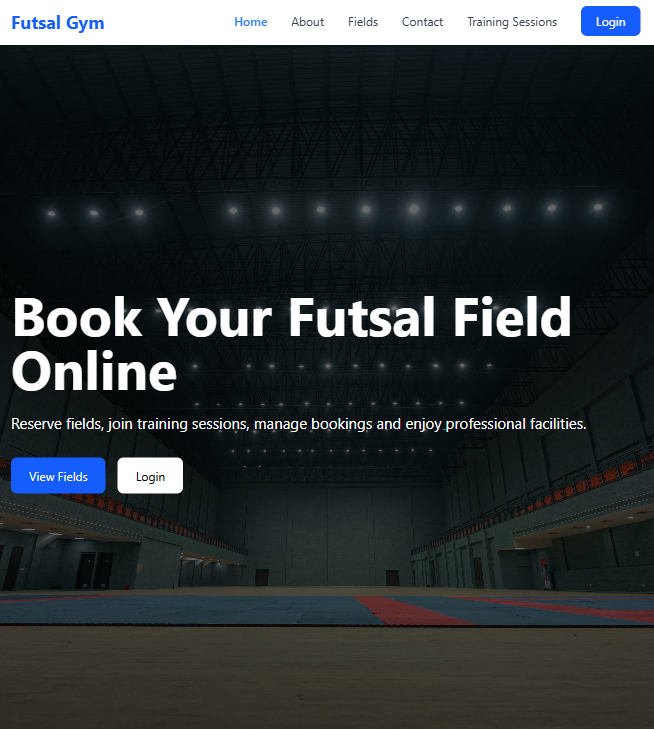
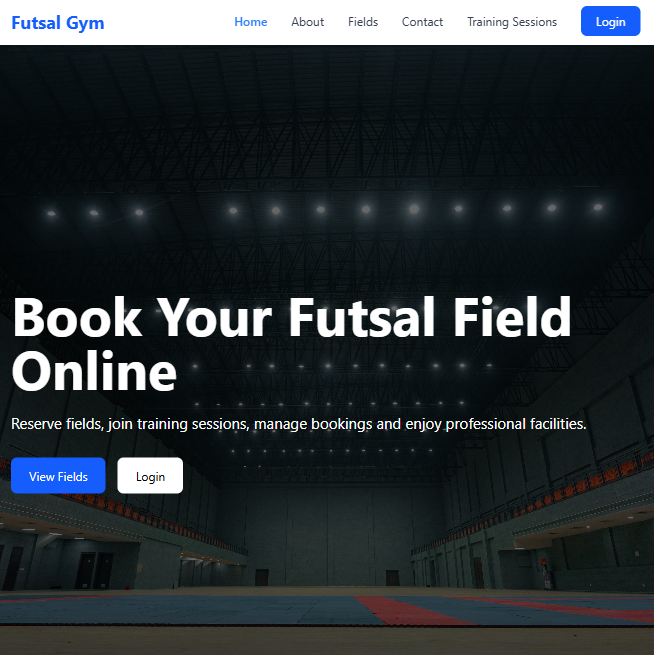
the picture of weather app project added

diff --git a/src/features/projects/ProjectsPage.tsx b/src/features/projects/ProjectsPage.tsx
@@ -21,7 +21,7 @@ const projects = [
   },
   {
     id: 3,
-    image: "about.png",
+    image: "weather.png",
     thechnologies: ["React", "Node.js", "JWT", "MySQL"],
     title: "Futsal Gym Management System",
     description:
@@ -64,9 +64,9 @@ function ProjectsPage() {
                     alt={project.title}
                     width={400}
                     height={400}
-                    className="w-full max-w-130 sm:max-w-180 lg:max-w-150 h-auto rounded-xl"
+                    className="w-full max-w-130 sm:max-w-180 lg:max-w-150 h-auto rounded-xl shadow-xl"
                   />
-                  <div className="flex justify-start mt-4 items-center gap-1">
+                  <div className="flex justify-start mt-6 items-center gap-1">
                     {project.thechnologies?.map((thechnology, i) => {
                       return (
                         <span
